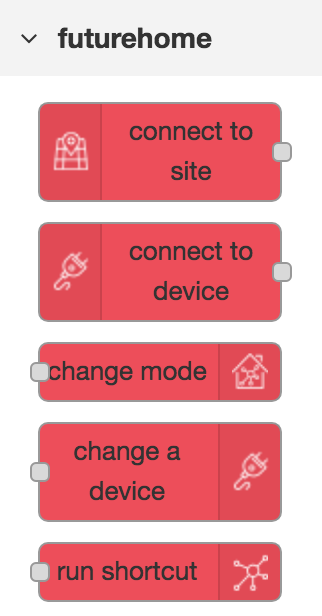
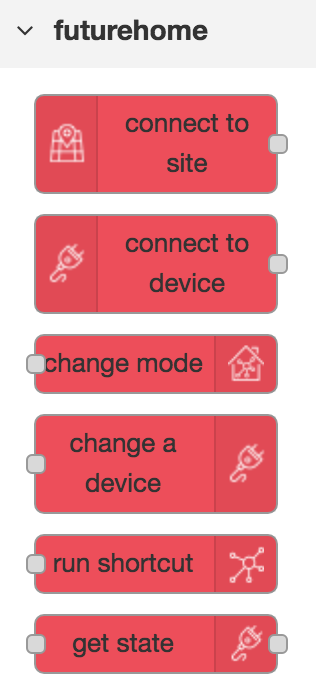
added get state node

diff --git a/futurehome/output.html b/futurehome/output.html
@@ -281,3 +281,182 @@
     });
 </script>
 
+
+<script type="text/x-red" data-template-name="get-state">
+     <div class="form-row">
+        <label for="node-input-user"> Futurehome site</label>
+        <input type="text" id="node-input-user">
+    </div>
+    <div class="form-row">
+        <label for="node-input-get_type"> Select type</label>
+        <select id="node-input-get_type">
+            <option value=""> -- select a type -- </option>
+            <option value="rooms">Room</option>
+            <option value="devices">Device</option>
+        </select>
+    </div>
+     <div class="form-row">
+        <label for="node-input-device"> Device</label>
+        <input type="text" id="node-input-device" style="width: 60%;" />
+        <a id="node-input-device-scan" class="btn"><i class="fa fa-search"></i></a>
+    </div>
+     <div class="form-row">
+        <label for="node-input-room"> Room</label>
+        <input type="text" id="node-input-room" style="width: 60%;" />
+        <a id="node-input-room-scan" class="btn"><i class="fa fa-search"></i></a>
+    </div>
+    <div class="form-row">
+        <label for="node-input-name"><i class="icon-tag"></i> Name</label>
+        <input type="text" id="node-input-name" placeholder="Name">
+    </div>
+</script>
+
+<script type="text/x-red" data-help-name="get-state">
+    <p>This node can be used to get the current state of a device or a room.</p>
+    <p>
+        Send the following payload to use the node.
+    </p>
+    <p>
+        <code>msg.payload = {"type":"rooms","id":"3"};  // will get the information from room 3</code>
+        <code>msg.payload = {"type":"devices","id":"2"};  // will get the information from device 2</code>
+    </p>
+    <p>
+        If input is something else (like timestamp) the node will get information from the selected room or device.
+    </p>
+</script>
+
+<script type="text/javascript">
+    RED.nodes.registerType('get-state',{
+        category: 'futurehome',
+        color: '#EF4C57',
+        defaults: {
+            user: {type:"futurehome-login",required:true},
+            name: {value:""},
+            get_type: {value:""},
+            device_id: {value:""},
+            device: {value:""},
+            room_id: {value:""},
+            room: {value:""}
+        },
+        inputs:1,
+        outputs:1,
+        icon: "device.png",
+        align: 'right',
+        paletteLabel: function() {
+            return "get state";
+        },
+        label: function() {
+            return this.name||"get state";
+        },
+        oneditprepare: function() {
+            var user_id = this.user;
+
+            if ($('#node-input-get_type option:selected').val() != "rooms" || "devices") {
+                $('#node-input-device').prop("readonly",true);
+                $('#node-input-device-scan').attr("disabled", true);
+                $('#node-input-room').prop("readonly",true);
+                $('#node-input-room-scan').attr("disabled", true);
+            }
+
+            if (!user_id) {
+                //console.log("No user!");
+                $('#node-input-get_type').prop("readonly",true);
+                $('#node-input-get_type').attr("disabled", true);                
+            } else {
+                //console.log("have user");
+                $('#node-input-get_type').prop("readonly",false);
+                $('#node-input-get_type').attr("disabled",false);
+
+            }
+
+            function changeType() {
+                console.log($('#node-input-get_type option:selected').val());
+
+                if ($('#node-input-get_type option:selected').val() == "devices") {
+                    $('#node-input-device').prop("readonly",false);
+                    $('#node-input-device-scan').attr("disabled",false);
+
+                    $('#node-input-room').prop("readonly",true);
+                    $('#node-input-room-scan').attr("disabled", true);
+
+                } else if ($('#node-input-get_type option:selected').val() == "rooms") {
+                    $('#node-input-device').prop("readonly",true);
+                    $('#node-input-device-scan').attr("disabled", true);
+
+                    $('#node-input-room').prop("readonly",false);
+                    $('#node-input-room-scan').attr("disabled",false);
+                }
+                //$("#node-input-name").val($('#node-input-mode option:selected').text() + " mode");
+            }
+            $('#node-input-get_type').on('change', changeType)
+
+            function changeDevice() {
+                this.device = $('#node-input-device option:selected').text();
+                //$("#node-input-name").val($('#node-input-device option:selected').text());
+                this.device_id = $('#node-input-device option:selected').val();
+            }            
+
+            function changeRoom() {
+                this.room = $('#node-input-room option:selected').text();
+                //$("#node-input-name").val($('#node-input-device option:selected').text());
+                this.room_id = $('#node-input-room option:selected').val();
+            }   
+
+            $("#node-input-device-scan").click(function(e) {
+                var url = 'input/devices?id='+user_id;
+                $.get(url, function(data,status) {
+                    if (status == "success") {
+                        RED.notify("Recived a list of devices.","success");
+                        //console.log("Devices recived: ");
+                        //console.log(data);
+                        $('#node-input-device').replaceWith('<select id="node-input-device" style="width: 60%;"></select>');
+                        $('#node-input-device').on('change', changeDevice)
+                        data.forEach(function(device){
+                            //console.log(device.name + device.id);
+                            $('#node-input-device').append('<option value="' + device.id + '">' + device.name + '</option>');
+                        });
+                    }
+                })
+                .error(function(jqXHR, textStatus, errorThrown) {
+                    RED.notify(jqXHR.responseText, "error");
+                });
+            });
+
+            $("#node-input-room-scan").click(function(e) {
+                var url = 'output/rooms?id='+user_id;
+                $.get(url, function(data,status) {
+                    if (status == "success") {
+                        RED.notify("Recived a list of rooms.","success");
+                        //console.log("Devices recived: ");
+                        //console.log(data);
+                        $('#node-input-room').replaceWith('<select id="node-input-room" style="width: 60%;"></select>');
+                        $('#node-input-room').on('change', changeRoom)
+                        data.forEach(function(room){
+                            //console.log(room.name + room.id);
+                            $('#node-input-room').append('<option value="' + room.id + '">' + room.name + '</option>');
+                        });
+                    }
+                })
+                .error(function(jqXHR, textStatus, errorThrown) {
+                    RED.notify(jqXHR.responseText, "error");
+                });
+            });             
+
+        },
+        oneditsave: function() {
+            this.device = $('#node-input-device option:selected').text();
+            //$("#node-input-name").val($('#node-input-device option:selected').text());
+            this.device_id = $('#node-input-device option:selected').val();
+            this.room = $('#node-input-room option:selected').text();
+            this.room_id = $('#node-input-room option:selected').val();
+        },
+        oneditcancel: function() {
+        }
+    });
+</script>
+
+
+
+
+
+

diff --git a/futurehome/output.js b/futurehome/output.js
@@ -189,7 +189,6 @@ module.exports = function(RED) {
 	RED.nodes.registerType("shortcut",Shortcut); 
 
 
-
 	function runShortcut(fh_user, shortcut_id) {
 		request.patch({
     		url: "https://" + fh_user.credentials.base_uri +"api/v2/sites/" + fh_user.credentials.site_id,
@@ -252,6 +251,125 @@ module.exports = function(RED) {
 
         });
     });
+    
+
+    function GetState(n) {
+        RED.nodes.createNode(this,n);
+        var node = this;
+        node.get_type = n.get_type;
+        node.device_id = n.device_id;
+        node.room_id = n.room_id;
+        node.fh_user;
+
+        try {
+            node.fh_user = RED.nodes.getNode(n.user);  
+        } catch (err) {
+            node.error("Error, no login node: " + err);
+        }
+         //  if (!node.fh_user || !node.fh_user.credentials.access_token || !node.fh_user.credentials.site_id || !node.device_id)
+        if (!node.fh_user || !node.fh_user.credentials.access_token || !node.fh_user.credentials.site_id) {
+            this.warn("No access token!!");
+            return;
+        }
+        
+        // TODO: use string as input instead of json
+        this.on('input', function (msg) {
+            if (msg.payload.hasOwnProperty("type") && msg.payload.hasOwnProperty("id")) {
+                if (typeof msg.payload.type === 'string' && typeof msg.payload.id === 'string') {
+                    getState(msg.payload.type, msg.payload.id);
+                } else {
+                    node.warn("Input is not typeof 'string'");
+                }
+            }  else {
+                if (node.get_type == "devices") {
+                    if (node.device_id) {
+                        getState(node.get_type, node.device_id);
+                    } else {
+                        node.warn("node is missing device id");
+                    }
+                } else if (node.get_type == "rooms") {
+                    if (node.room_id) {
+                        getState(node.get_type, node.room_id);
+                    } else {
+                        node.warn("node is missing room id");
+                    }
+                } else {
+                    node.warn("type is not set");
+                }
+            }  
+        });
+        
+        // type has to be: "rooms" or "devices"
+        function getState(type, id) {
+            request.get({
+            url: "https://" + node.fh_user.credentials.base_uri + "api/v2/sites/" + node.fh_user.credentials.site_id + "/" + type + "/" + id,
+            json: true,
+            headers: {
+                "Authorization": "Bearer " + node.fh_user.credentials.access_token
+            },
+            }, function(err, result, data) {
+                if (err) {
+                    console.log("Problem getting shortcuts: " + JSON.stringify(err));
+                    return;
+                }
+                if (data.error) {
+                    node.log(JSON.stringify(data.error));
+                    return;
+                } else {
+                    //console.log("Sending recived data: ")
+                    //console.log(data);
+                    node.send({payload: data});
+                    //res.send(data.shortcuts);
+                }
+            });
+        }
+    }
+    RED.nodes.registerType("get-state",GetState);
 
 
+    RED.httpAdmin.get('/output/rooms', function(req, res){
+        if (!req.query.id) {
+            res.status(400);
+            res.send("No node-id");
+            return;
+        }
+        var node_id = req.query.id;
+        var credentials = RED.nodes.getCredentials(node_id);
+        if (!credentials) {
+            res.status(400);
+            res.send("Missing site information. Press Done, and try again.");
+            return;
+        }
+
+        request.get({
+            url: "https://" + credentials.base_uri + "api/v2/sites/" + credentials.site_id + "/rooms", // + "/rooms"
+            json: true,
+            headers: {
+                "Authorization": "Bearer " + credentials.access_token
+            },
+        }, function(err, result, data) {
+            if (err) {
+                console.error("Problem getting rooms: " + JSON.stringify(err));
+                return;
+            }
+            if (data.error) {
+                console.log(JSON.stringify(data.error));
+                res.status(400);
+                res.send(data.error);
+                return;
+            }
+            if (!data) {
+                console.log("Missing rooms in response.");
+                res.status(400);
+                res.send("Missing rooms in response.");
+            } else {
+                //console.log("Sending devices: ")
+                //console.log(data._embedded);
+                res.send(data);
+            }
+
+        });
+    });
+
+    
 }

diff --git a/README.md b/README.md
@@ -68,3 +68,17 @@ msg.payload = 3;		// will run shortcut with ID = 3
 
 // Anything else will run the shortcut selected on the node.
 ```
+
+### get state
+This node is used to get the state of a device or a room.
+
+```javascript
+// Send the following payload to use the node.
+// Get the information from room 3:
+msg.payload = {"type":"rooms","id":"3"};
+
+// Get the information from device 2 
+msg.payload = {"type":"devices","id":"2"};
+
+// If input is something else (like timestamp) the node will get information from the selected room or device.
+```
